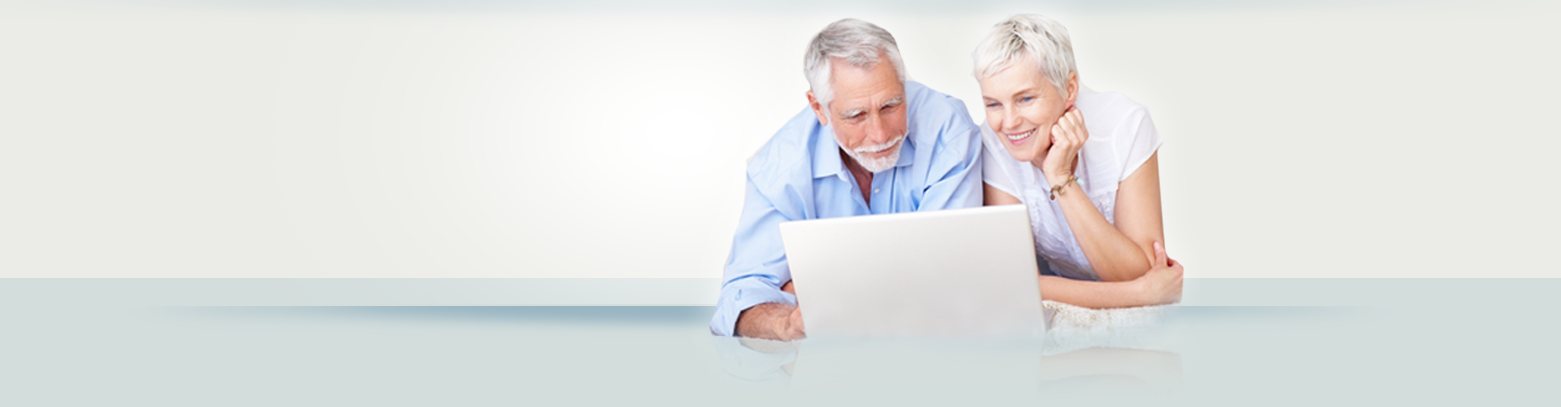
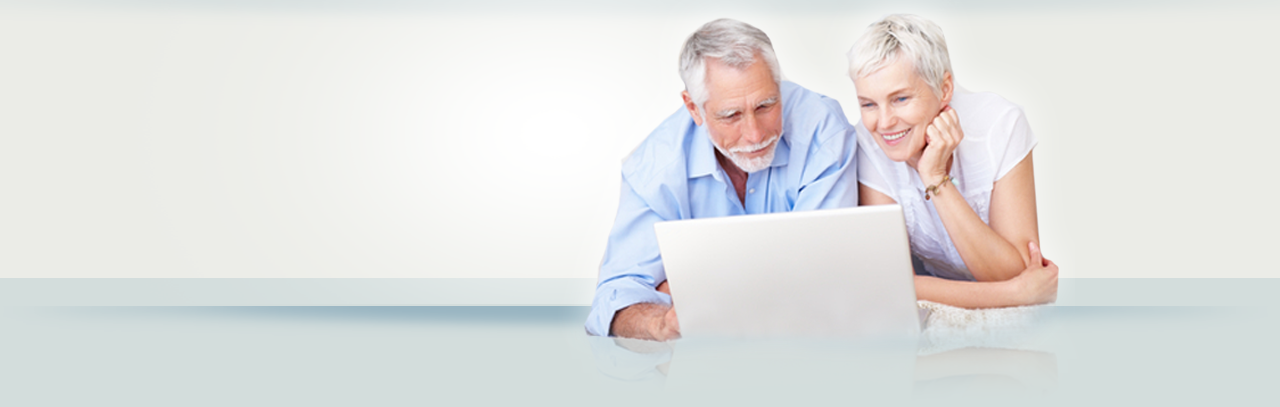
fixed the landing page width overflow

Changed region(s): [[0.4375, 0.0295, 0.8438, 0.855]]

diff --git a/public/index.html b/public/index.html
@@ -45,21 +45,23 @@ and open the template in the editor.
                 </div>
             </div> 
 
-            <div id="banner-container">
-                <div class="banner">
-                    <div class="content">
-                        <span class="left">“</span>Creating a legacy plan was easy & now all our end of life
-                        wishes are in one place.<span>”</span>
-                        <div class="description">
-                            A Legacy plan clarifies your wishes and provides instructions
-                            so your loved ones know what you want if the event of an untimely passing.
+            <div id="banner-outer-container">
+                <div id="banner-container">
+                    <div class="banner">
+                        <div class="content">
+                            <span class="left">“</span>Creating a legacy plan was easy & now all our end of life
+                            wishes are in one place.<span>”</span>
+                            <div class="description">
+                                A Legacy plan clarifies your wishes and provides instructions
+                                so your loved ones know what you want if the event of an untimely passing.
+                            </div>
+                            <div class="link">
+                                <img src="/images/learn_more_button.png"/>
+                            </div>
                         </div>
-                        <div class="link">
-                            <img src="/images/learn_more_button.png"/>
+                        <div class="loading-bar">
+                            <img src="/images/loading_bar.png"/>
                         </div>
-                    </div>
-                    <div class="loading-bar">
-                        <img src="/images/loading_bar.png"/>
                     </div>
                 </div>
             </div>

diff --git a/public/stylesheets/style.css b/public/stylesheets/style.css
@@ -21,7 +21,7 @@ div.clear {
 }
 
 #full_container{
-    width: 1561px;
+    width: 100%;
 }
 
 div#header-container {
@@ -29,6 +29,8 @@ div#header-container {
     background: url('/images/header_back.png');
     height: 102px;
     margin-bottom: 1px;
+	margin-left: auto;
+    margin-right: auto;
 }
 
 #header-container #header{
@@ -94,8 +96,15 @@ div#header-container {
 }
 
 
+#banner-outer-container{
+   background: url('/images/banner_outer_bk.png');
+}
+
 #banner-container{
+	width: 1280px;
     height: 407px;
+	margin-left: auto;
+	margin-right: auto;
     background: url('/images/banner_bk.png');
 }
 
@@ -209,6 +218,7 @@ div#header-container {
 #body-container .body .right-side-bar .video-container .video{
     border: 4px solid #fff;
     border-radius: 5px;
+	min-height: 215px;
 }
 
 
@@ -216,6 +226,9 @@ div#header-container {
     background: url('/images/footer_bg.png');
     height: 130px;
     margin-bottom: 100px;
+	width: 1280px;
+	margin-left: auto;
+	margin-right: auto;
 }
 
 #footer-container .footer{
